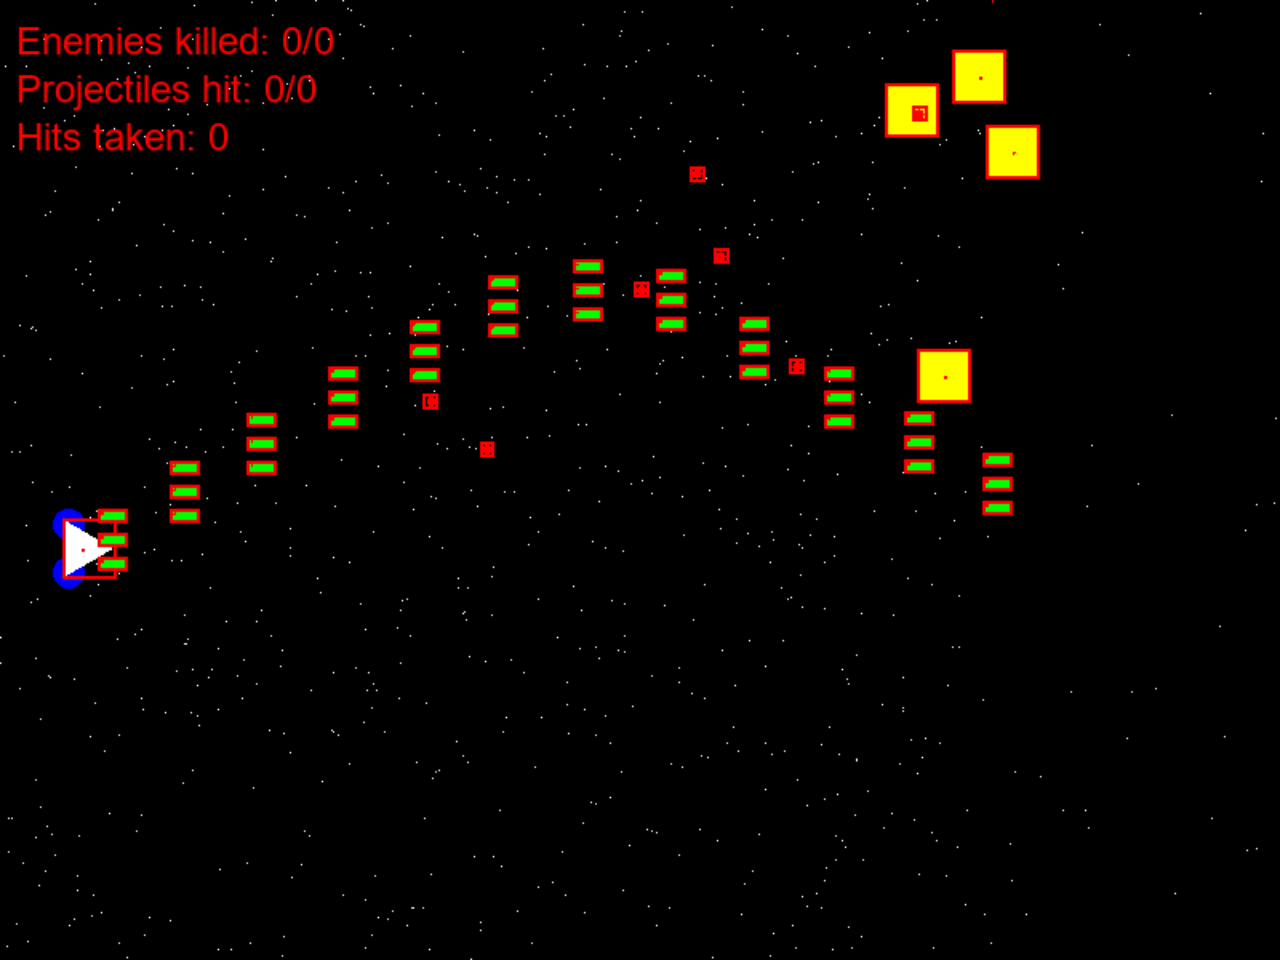
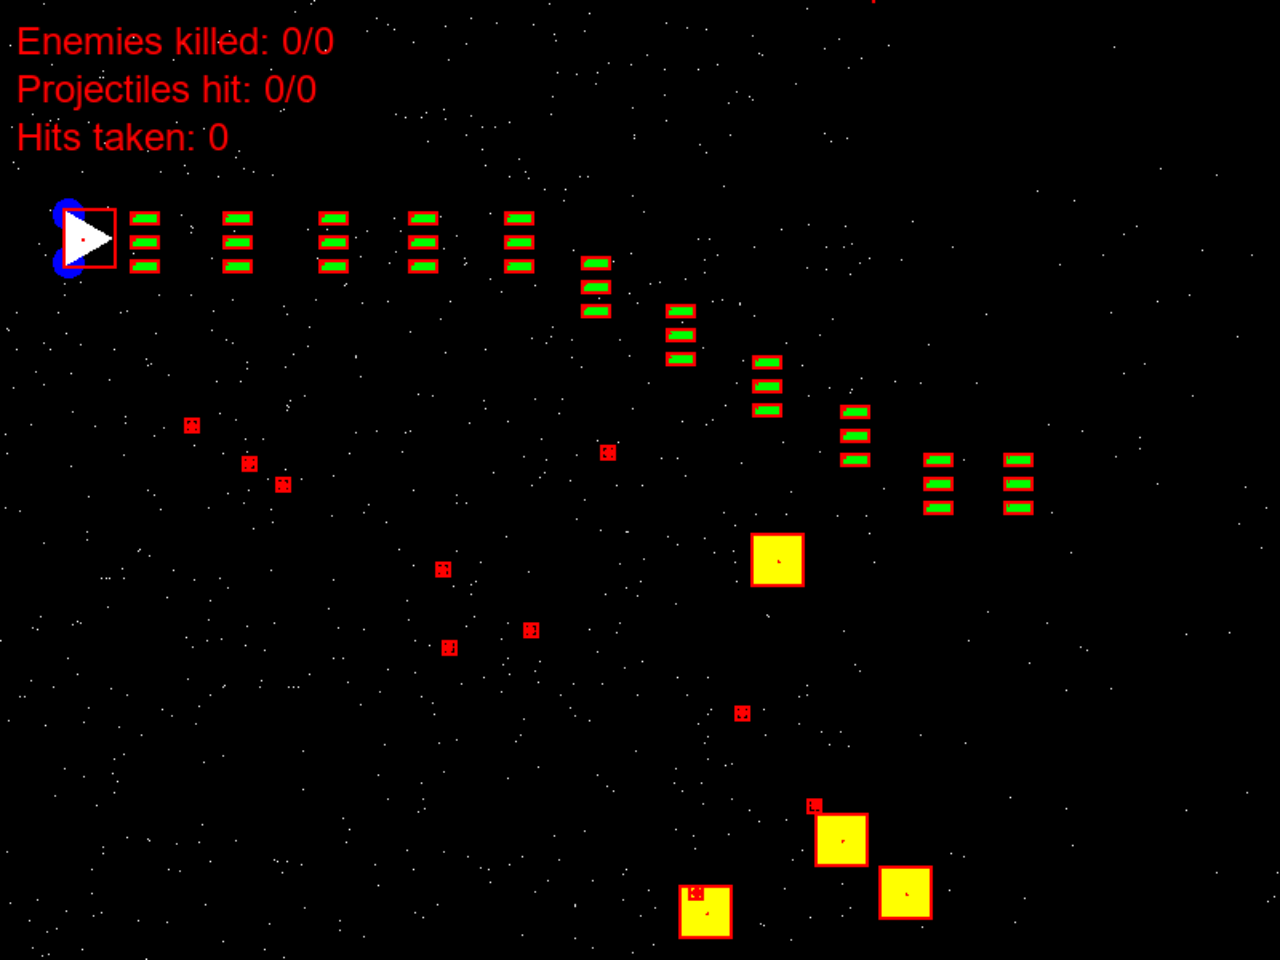
Showcase retaken with the star field (it never showed in the browser); kazilib to master ad10d04 (points drawn in a browser); README screenshot and alt text; continue.md
Star field in the browser:
- WebGL draws GL_POINTS only at the vertex shader's gl_PointSize, which kazilib's GL ES 1 emulation never set, so yip's stars (sf::PrimitiveType::Points) were 0 px. kazilib master ad10d04 (web/sfml patch) sets it from glPointSize (default 1); the web build rebuilt on it and deployed to https://kazin.dev/projects/yip/.

Showcase:
- Retaken from the live page, stars drawn: docs/screenshot.png (README top: the triple shot sweeping down towards four enemies), docs/showcase/1_menu .. 5_laser.png, docs/showcase/kazin/yip.jpg + yip-1 .. yip-4.jpg (1024x768, best first).

Tests: run_web_test.ps1 -Url https://kazin.dev/projects/yip/ passed (4 enemies beaten).

Original prompts:
"now I want you standarize the work and do the same with the githubs of yip, yips, tileship, tiled, nft, use various agents if well scoped"
"all the process we've done with tictactoe"
"I don't see the yip background"

diff --git a/continue.md b/continue.md
@@ -4,8 +4,8 @@
 
 | Repo | Commit | State |
 |---|---|---|
-| yip | master: the web / deploy commit (this file's) on `2e46a03` (the struct cleanup) | pushed |
-| kazilib (`src/dep/kazilib`) | master `a216c7d` (browser.js held keys, on `2a274a9`: web builds) | pushed |
+| yip | master: the showcase retake (this file's) on `2e49f42` (the web / deploy commit) | pushed |
+| kazilib (`src/dep/kazilib`) | master `ad10d04` (points drawn in a browser: the star field; on `a216c7d` browser.js held keys, `2a274a9` web builds) | pushed |
 
 The kazilib pointer moved from `50df5d0` to master: `Testerino.cpp` reads
 `tcore::Endpoint::_dir` (was `Dir()`), `SceneMgr::Current` reads `Manager::_current` (was
@@ -22,6 +22,10 @@ The kazilib pointer moved from `50df5d0` to master: `Testerino.cpp` reads
   `Enemy beaten: <n>` (SGame).
 - **Deployed:** https://kazin.dev/projects/yip/ (`deploy_ubuntu.ps1`): `/opt/yip/web` on
   `kazin-music`, Caddy snippet `kazin.dev.d/yip.caddy`; static, no service.
+- **Star field in the browser:** WebGL draws `GL_POINTS` only at the shader's
+  `gl_PointSize`, which kazilib's GL ES 1 emulation never set, so the stars
+  (`sf::PrimitiveType::Points`) were 0 px; kazilib `ad10d04` sets it. Rebuilt and redeployed
+  (the coordinator), showcase retaken with the stars.
 - **Showcase** from the live page: `docs\screenshot.png` (README top), `docs\showcase\`
   `1_menu` .. `5_laser.png`, `docs\showcase\kazin\yip.jpg`, `yip-1` .. `yip-4.jpg`
   (1024x768, for the kazin.dev card; the portfolio repo is the parent session's).
@@ -35,7 +39,7 @@ The kazilib pointer moved from `50df5d0` to master: `Testerino.cpp` reads
 |---|---|
 | Testerino `play.tt` (native, Windows) | 69 passed, 0 failed |
 | `src\tests\web\run_web_test.ps1` (local, `web\`, headless Edge) | passed (enemies beaten, Escape / Enter, no page error) |
-| same, `-Url https://kazin.dev/projects/yip/` | passed (5 enemies beaten) |
+| same, `-Url https://kazin.dev/projects/yip/` (on kazilib `ad10d04`, stars drawn) | passed (4 enemies beaten) |
 
 Known gaps: only Chromium (Edge, SwiftShader) tested; no Firefox / Safari, no phone, no
 real GPU (`to-resolve.md`).
@@ -49,3 +53,4 @@ real GPU (`to-resolve.md`).
 
 1. "now I want you standarize the work and do the same with the githubs of yip, yips, tileship, tiled, nft, use various agents if well scoped"
 2. "all the process we've done with tictactoe"
+3. "I don't see the yip background"

diff --git a/README.md b/README.md
@@ -8,7 +8,7 @@ the screen and fires at the yellow enemies, which fire red shots back at it.
 **Play it in your browser: https://kazin.dev/projects/yip/** (Ctrl+E brings enemies,
 A fires, the arrows fly)
 
-![The triple shot sweeping up into three enemies while their red shots come back](docs/screenshot.png)
+![The triple shot sweeping down over the star field towards four enemies while their red shots come back](docs/screenshot.png)
 
 ## Keys
 
